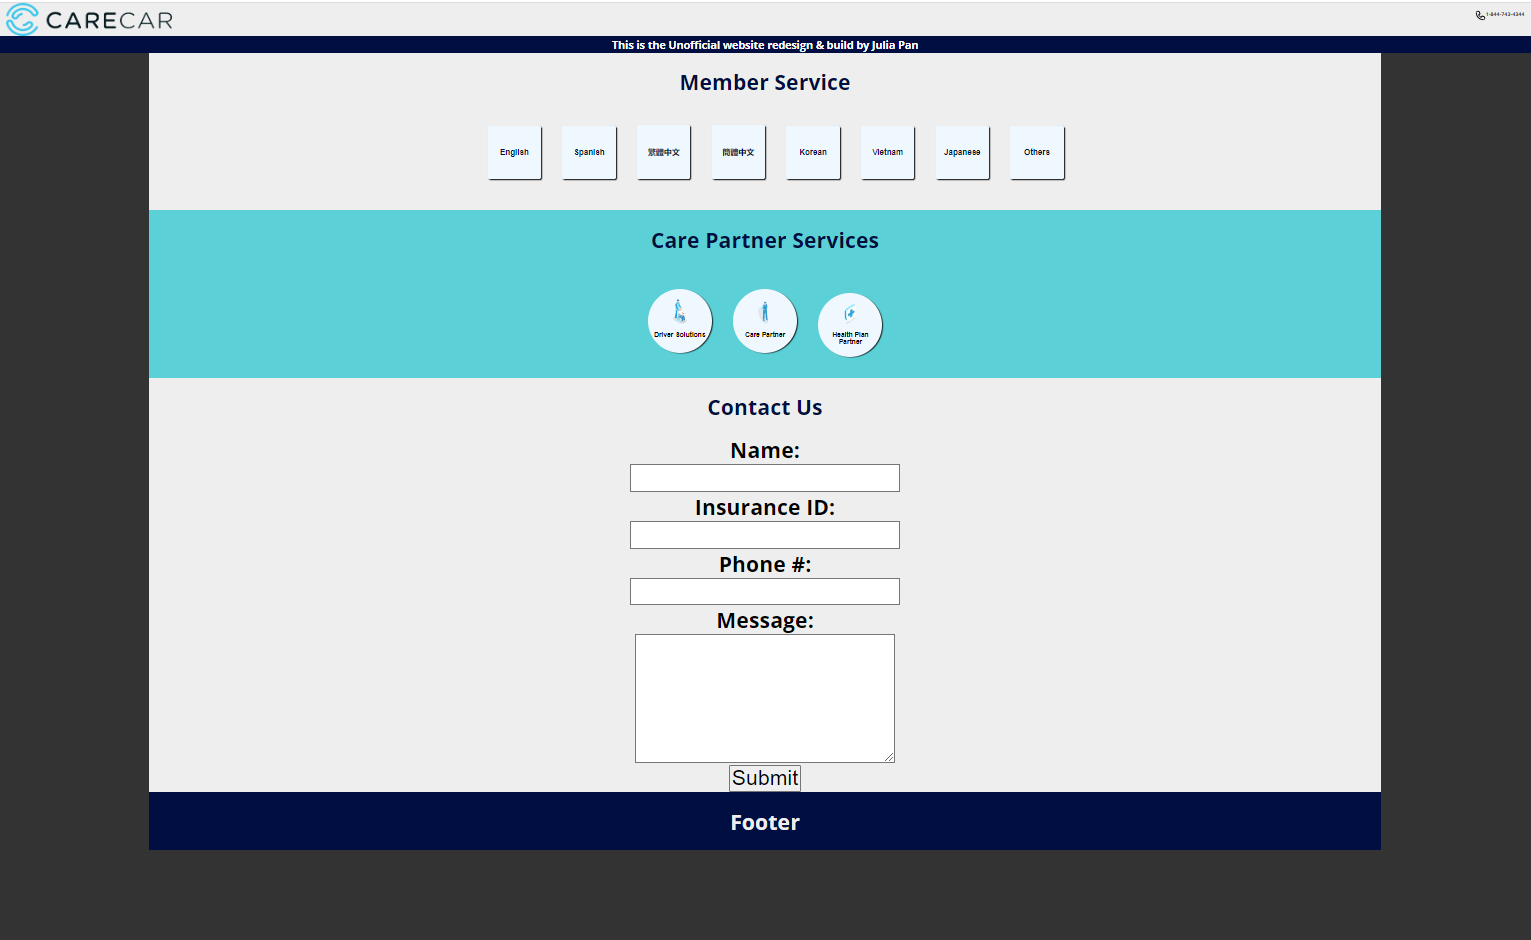
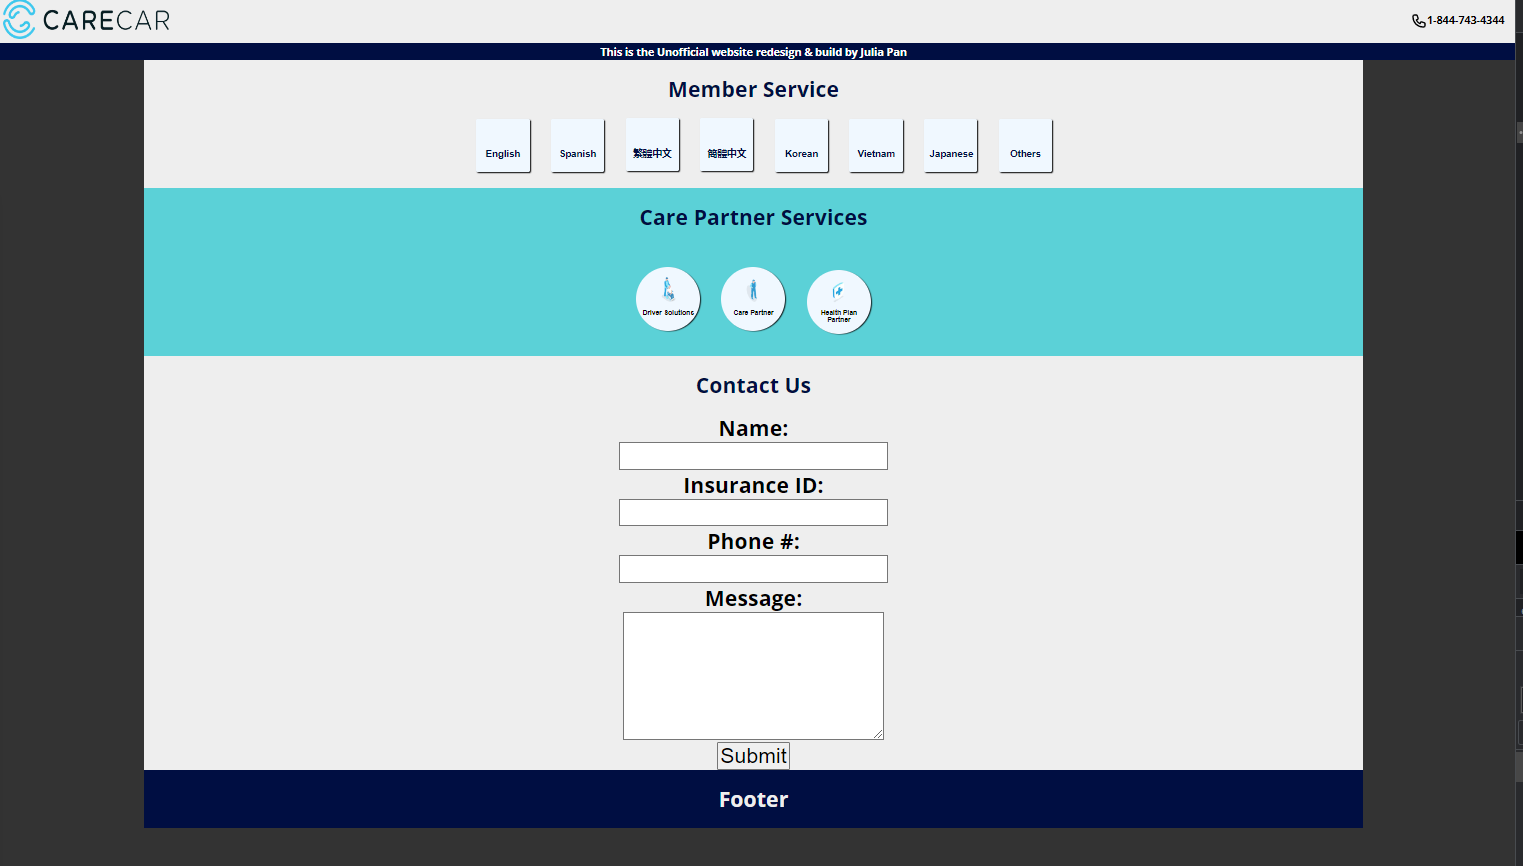
0922

Changed region(s): [[0.0, 0.0, 1.0, 0.9665], [0.9875, 0.5924, 1.0, 0.6547]]

diff --git a/pages/_app.js b/pages/_app.js
@@ -1,7 +1,21 @@
-import '../styles/globals.css'
+import "../styles/globals.css";
+import Header from "../components/Header/Header";
+import Announcement from "../components/Header/Anouncement";
+import CPService from "../components/cpService/CPService";
+import ContactForm from "../components/contact/ContactForm";
+import Footer from "../components/Footer/Footer";
 
 function MyApp({ Component, pageProps }) {
-  return <Component {...pageProps} />
+  return (
+    <>
+      <Header />
+      <Announcement />
+      <Component {...pageProps} />
+      <CPService />
+      <ContactForm />
+      <Footer />
+    </>
+  );
 }
 
-export default MyApp
+export default MyApp;

diff --git a/pages/index.js b/pages/index.js
@@ -1,20 +1,8 @@
-import React from "react";
-import Header from "../components/Header/Header";
-import Announcement from "../components/Header/Anouncement";
 import MemberService from "../components/memberService/MemberService";
-import CPService from "../components/cpService/CPService";
-import ContactForm from "../components/contact/ContactForm";
-import Footer from "../components/Footer/Footer";
-
 export default function Home() {
   return (
     <>
-      <Header />
-      <Announcement />
       <MemberService />
-      <CPService />
-      <ContactForm />
-      <Footer />
     </>
 
     //git push https://github.com/laushiju/carecar2.0.git

diff --git a/components/contact/ContactForm.module.css b/components/contact/ContactForm.module.css
@@ -24,6 +24,24 @@
 }
 @media (max-width: 768px) {
   .container {
-    width: 100%;
+    width: 200%;
+  }
+  .container h1 {
+    display: inline-block;
+    font-size: 4rem;
+    color: #000e42;
+  }
+  .control label {
+    display: block;
+    font-size: 2rem;
+    text-align: center;
+  }
+  .control input,
+  .control textarea {
+    font-size: 2rem;
+    text-align: center;
+  }
+  .container button {
+    font-size: 2rem;
   }
 }

diff --git a/components/Header/Header.module.css b/components/Header/Header.module.css
@@ -20,12 +20,18 @@
 }
 
 @media (max-width: 768px) {
+  .container {
+    width: 200%;
+  }
   .logo {
-    width: 5rem;
-    height: 1rem;
+    width: 10rem;
+    height: 2rem;
   }
   .phone {
     height: 1rem;
     justify-content: flex-end;
+  }
+  .container h4 {
+    font-size: 0.5rem;
   }
 }

diff --git a/components/memberService/MemberService.module.css b/components/memberService/MemberService.module.css
@@ -12,10 +12,10 @@
   color: #000e42;
 }
 .container p {
-  font-size: 1.8rem;
+  font-size: 1.4rem;
 }
 @media (max-width: 768px) {
   .container {
-    width: 100%;
+    width: 200%;
   }
 }

diff --git a/components/ui/Button.module.css b/components/ui/Button.module.css
@@ -21,7 +21,9 @@
   .btn {
     width: 8rem;
     height: 8rem;
-    padding: 0.2rem;
+    padding: 0.1rem;
     font-size: 1.5rem;
+    margin-bottom: 2rem;
+    margin-left: 2rem;
   }
 }

diff --git a/styles/globals.css b/styles/globals.css
@@ -5,4 +5,5 @@ body {
   margin: 0;
   font-family: "Open Sans", sans-serif, Arial, Helvetica, sans-serif;
   background-color: #333;
+  width: 100%;
 }

diff --git a/components/Header/Anouncement.module.css b/components/Header/Anouncement.module.css
@@ -7,3 +7,8 @@
   text-align: center;
   margin: 0;
 }
+@media (max-width: 768px) {
+  .title {
+    width: 200%;
+  }
+}

diff --git a/components/Footer/Footer.module.css b/components/Footer/Footer.module.css
@@ -17,6 +17,6 @@
 }
 @media (max-width: 768px) {
   .container {
-    width: 100%;
+    width: 200%;
   }
 }

diff --git a/components/cpService/CPService.module.css b/components/cpService/CPService.module.css
@@ -28,6 +28,6 @@
 }
 @media (max-width: 768px) {
   .container {
-    width: 100%;
+    width: 200%;
   }
 }

diff --git a/README.md b/README.md
@@ -8,3 +8,6 @@ Zoom in @ 75%
 ![github image](https://github.com/laushiju/carecar2.0/blob/main/public/screenshots/view2.PNG?raw=true)
 Zoom in @ 100%
 ![github image](https://github.com/laushiju/carecar2.0/blob/main/public/screenshots/view3.PNG?raw=true)
+
+Cellphone view @ 100%
+![github image](https://github.com/laushiju/carecar2.0/blob/main/public/screenshots/view4.PNG?raw=true)
